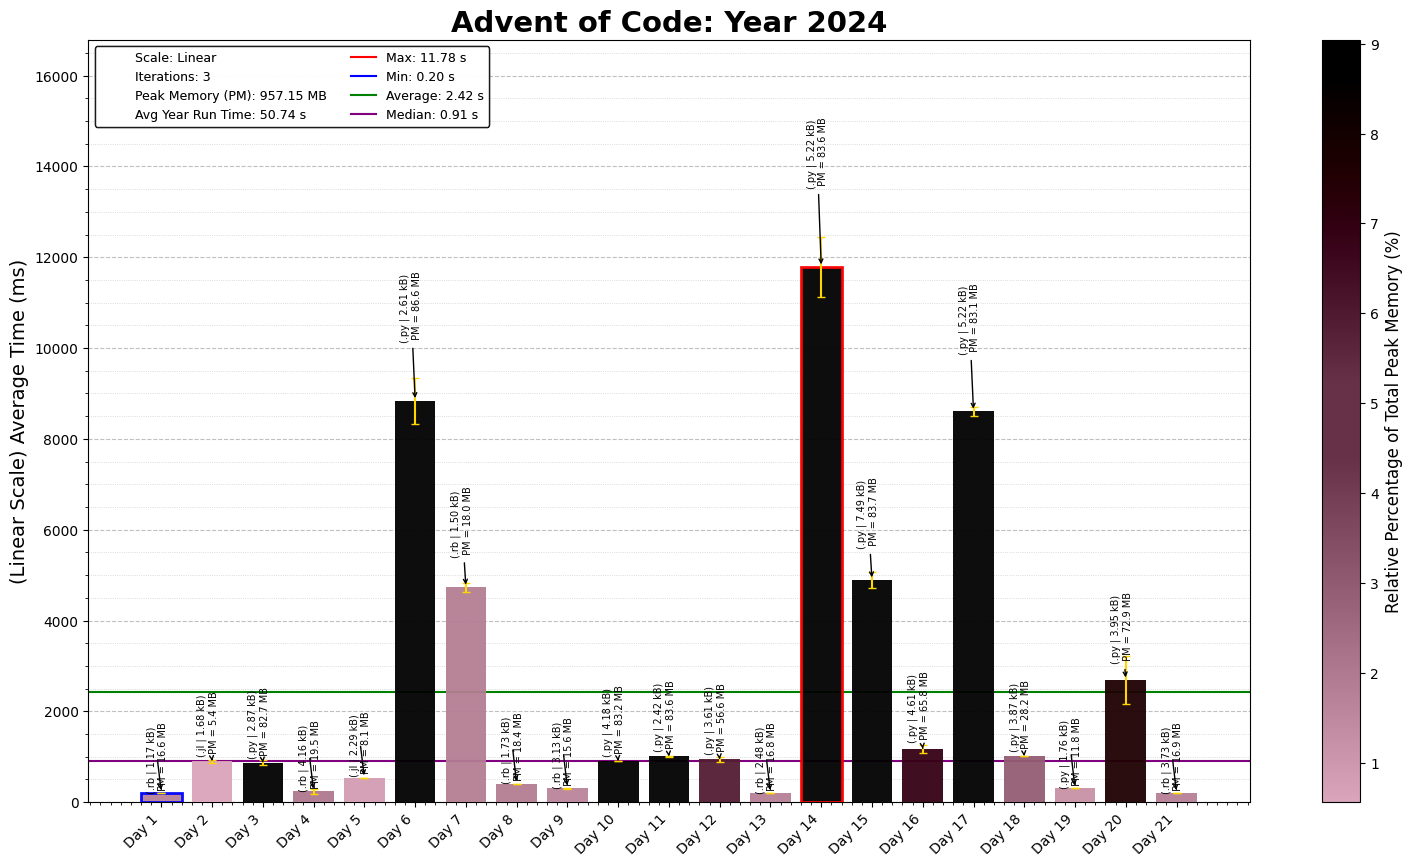
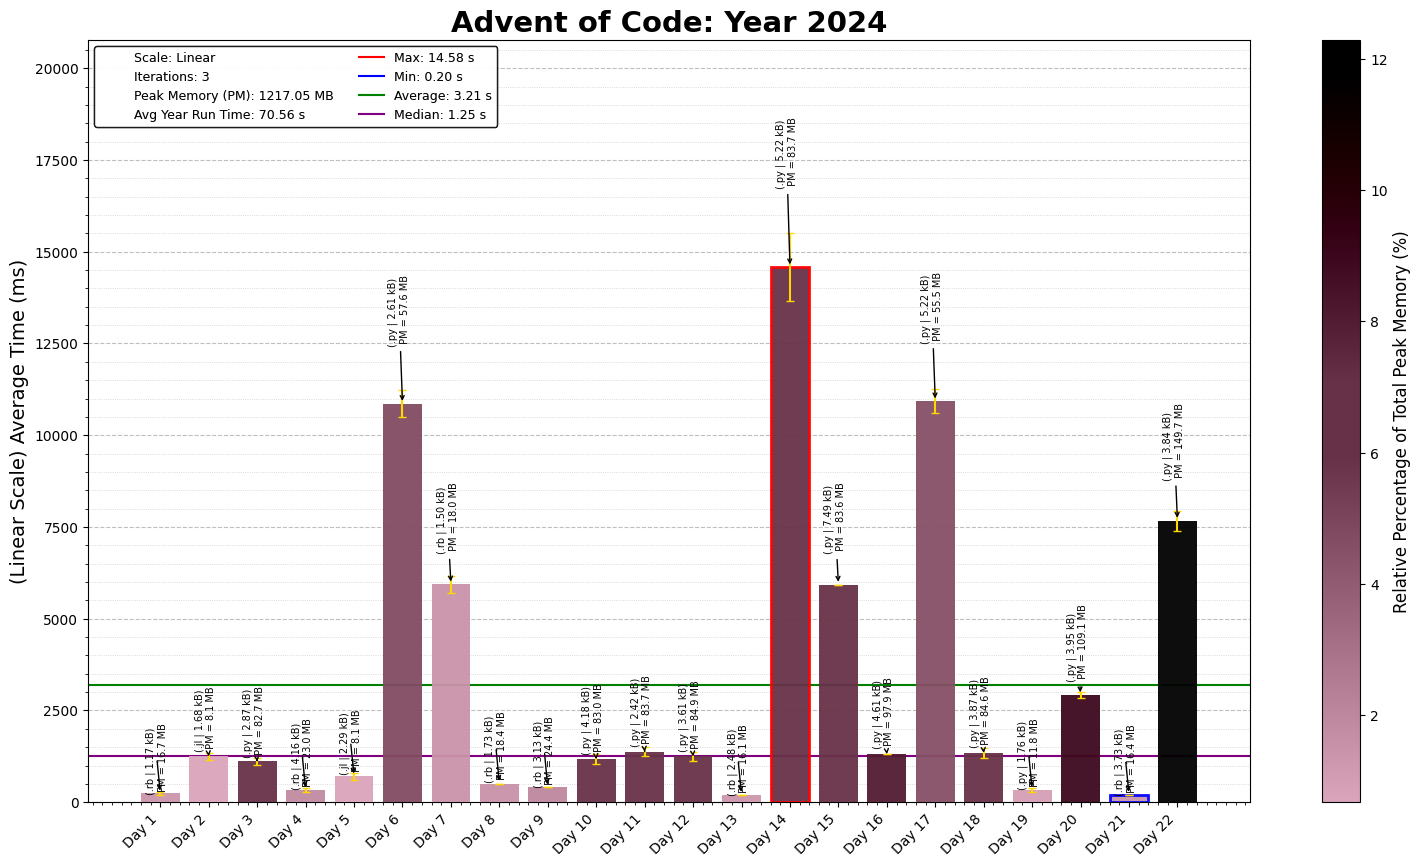
2024 Day 22

diff --git a/2024/22/2024Day22.py b/2024/22/2024Day22.py
@@ -1,0 +1,105 @@
+"""Advent of Code - Day 22, Year 2024
+Solution Started: Dec 22, 2024
+Puzzle Link: https://adventofcode.com/2024/day/22
+Solution by: abbasmoosajee07
+Brief: [Optimum Price in random price lists]
+"""
+
+import os
+import time
+from collections import defaultdict
+
+start_time = time.time()
+
+# Load the input data from the specified file path
+D22_file = "Day22_input.txt"
+D22_file_path = os.path.join(os.path.dirname(os.path.abspath(__file__)), D22_file)
+
+# Read and sort input data into a grid
+with open(D22_file_path) as file:
+    input_data = file.read().strip().split('\n')
+    input_nums = list(map(int, input_data))
+
+def evolve_secret_number(secret_number: int) -> int:
+    """Evolves the secret number through a series of transformations."""
+    def mix_number(value1: int, value2: int) -> int:
+        """Returns the result of XOR between value1 and value2."""
+        return value1 ^ value2
+
+    def prune_number(value: int, modulo: int = 16777216) -> int:
+        """Applies modulo operation to 'prune' the value."""
+        return value % modulo
+    # First transformation step: multiply, mix, and prune
+    factor_1 = 64
+    mixed_1 = mix_number(secret_number, secret_number * factor_1)
+    pruned_1 = prune_number(mixed_1)
+
+    # Second transformation step: divide, mix, and prune
+    divisor_2 = 32
+    mixed_2 = mix_number(pruned_1, pruned_1 // divisor_2)
+    pruned_2 = prune_number(mixed_2)
+    
+    # Third transformation step: multiply, mix, and prune
+    factor_3 = 2048
+    mixed_3 = mix_number(pruned_2, pruned_2 * factor_3)
+    final_num = prune_number(mixed_3)
+
+    # The final evolved number after all transformations
+    return final_num
+
+def process_buyer(buyer: int, generations: int = 2000) -> int:
+    """Process a single buyer and evolve their secret number over a specified number of generations."""
+    secret_number = buyer
+    price_list = []  # List to store differences in last digits
+
+    for gen in range(generations):
+        secret_number = evolve_secret_number(secret_number)  # Evolve the number
+
+        price_list.append(secret_number)
+
+    return price_list, secret_number
+
+def simulate_all_buyers(buyer_list: list[int]) -> int:
+    """Simulate all buyers, evolve their secret numbers, and return the total sum."""
+    total_nums = 0
+    price_dict = {}
+    for buyer in buyer_list:
+        price_list, final_number = process_buyer(buyer)  # Use the new function to process each buyer
+        price_dict[buyer] = price_list
+        total_nums += final_number
+    return price_dict, total_nums
+
+def sell_bananas(price_dict: dict, seq_len: int = 4) -> dict:
+    all_sequences = defaultdict(int)
+
+    for buyer_no, full_price in price_dict.items():
+        price_list = list(map(lambda x: x % 10, full_price))
+        sequence_dict = defaultdict(int)  # Initialize defaultdict with default value 0 for missing keys
+        for idx in range(seq_len - 1, len(price_list)):  # Look for sequences of length 4
+            price_deltas = tuple(
+                price_list[idx - (seq_len - i)] - price_list[idx - (seq_len - i + 1)]
+                for i in range(1, seq_len + 1)
+            )
+            if price_deltas not in sequence_dict:
+                sequence_dict[price_deltas] = price_list[idx]
+
+        # Update the global sequence dictionary with the local sequence counts
+        for sequence, price in sequence_dict.items():
+            all_sequences[sequence] += price
+
+    return all_sequences
+
+# Example Test
+price_dict, ans_p1 = simulate_all_buyers(input_nums)
+print("Part 1:", ans_p1)
+
+# # Sale sequence handling
+sale_dict = sell_bananas(price_dict)
+
+# Find the sequence with the maximum count
+if sale_dict:
+    sell_sequence = max(sale_dict, key=sale_dict.get)
+    bananas_sold = sale_dict[sell_sequence]
+    print(f"Part 2: {bananas_sold}")
+
+print("Time:", time.time() - start_time)

diff --git a/2024/22/Alt2024Day22.rb b/2024/22/Alt2024Day22.rb
@@ -1,0 +1,109 @@
+=begin
+Advent of Code - Day 22, Year 2024
+Solution Started: Dec 22, 2024
+Puzzle Link: https://adventofcode.com/2024/day/22
+Solution by: abbasmoosajee07
+Brief: [Optimum Price in random price lists]
+=end
+
+#!/usr/bin/env ruby
+
+require 'pathname'
+
+# Define file name and extract complete path to the input file
+D22_file = "Day22_input.txt"
+D22_file_path = Pathname.new(__FILE__).dirname + D22_file
+
+# Read the input data
+input_data = File.readlines(D22_file_path)
+
+# Function to mix two numbers using XOR
+def mix_number(value1, value2)
+  value1 ^ value2
+end
+
+# Function to prune a number by applying modulo
+def prune_number(value, modulo = 16777216)
+  value & (modulo - 1) # Faster than `%` for powers of 2
+end
+
+# Function to evolve the secret number through a series of transformations
+def evolve_secret_number(secret_number)
+  mixed_1 = mix_number(secret_number, secret_number << 6) # `* 64` becomes `<< 6`
+  pruned_1 = prune_number(mixed_1)
+
+  mixed_2 = mix_number(pruned_1, pruned_1 >> 5) # `/ 32` becomes `>> 5`
+  pruned_2 = prune_number(mixed_2)
+
+  mixed_3 = mix_number(pruned_2, pruned_2 << 11) # `* 2048` becomes `<< 11`
+  prune_number(mixed_3)
+end
+
+# Process a single buyer and evolve their secret number over a specified number of generations
+def process_buyer(buyer, generations = 2000)
+  secret_number = buyer
+  price_list = []  # List to store differences in last digits
+
+  generations.times do
+    secret_number = evolve_secret_number(secret_number)  # Evolve the number
+    last_digit = secret_number % 10  # Get last digit directly without string conversion
+
+    price_list.push(secret_number)
+  end
+  return price_list, secret_number
+end
+
+# Function to simulate all buyers and return the total sum of their final secret numbers
+def simulate_all_buyers(buyer_list)
+  total_nums = 0
+  price_dict = {}
+
+  buyer_list.each do |buyer|
+    digit_list, final_number = process_buyer(buyer)
+    price_dict[buyer] = digit_list
+    total_nums += final_number
+  end
+
+  [price_dict, total_nums]
+end
+
+# Function to handle banana sales and sequence handling
+def sell_bananas(price_dict, seq_len = 4)
+  all_sequences = Hash.new(0)
+
+  price_dict.each do |buyer_no, full_price|
+    price_list = full_price.map { |x| x % 10 }
+    sequence_dict = Hash.new(0)  # Initialize Hash with default value 0 for missing keys
+
+    (seq_len - 1..price_list.length - 1).each do |idx|  # Look for sequences of length `seq_len`
+      price_deltas = (1..seq_len).map do |i|
+        price_list[idx - (seq_len - i)] - price_list[idx - (seq_len - i + 1)]
+      end
+
+      sequence_dict[price_deltas] = price_list[idx] unless sequence_dict.key?(price_deltas)
+    end
+
+    # Update the global sequence dictionary with the local sequence counts
+    sequence_dict.each do |sequence, price|
+      all_sequences[sequence] += price
+    end
+  end
+
+  return all_sequences
+end
+
+# Parse input data
+input_nums = input_data.map(&:to_i)
+
+price_dict, ans_p1 = simulate_all_buyers(input_nums)
+puts "Part 1: #{ans_p1}"
+
+# Sale sequence handling
+sale_dict = sell_bananas(price_dict)
+
+# Find the sequence with the maximum count
+if !sale_dict.empty?
+  sell_sequence = sale_dict.max_by { |sequence, price| price }
+  bananas_sold = sell_sequence[1]
+  puts "Part 2: #{bananas_sold}"
+end

diff --git a/2024/README_2024.md b/2024/README_2024.md
@@ -25,3 +25,4 @@ This repository contains coding solutions for the 2024 Advent of Code. Its the f
 19. **Day 19- Linen Layout**: *Python* | Building words in using a group of blocks, finished in python cos it was easy.
 20. **Day 20- Race Condition**: *Python* | Almost an inverse of Day 18, where I brute forced a solution for Part 1:, by removing individual walls, which worked but took almost 5 mins so switched approaches. Switching to the manhattan approach between start and end cheats, resulted in a 10x speed up. Adding the KDT function for iterating through times, further sped it up by 10x, for a 100x speed up overall.
 21. **Day 21- Keypad Conundrum**: *Ruby* | While orignally I tried using a BFS to find path from each key to next, it became way tto memory intensive for the depths required in part 2, and switched to a more tailored algorithm focused on the absolute difference between two points
+22. **Day 22- Monkey Market**: *Python* | Essentially about finding patterns in a list of random numbers, which I ended up using a dictionary of lists to find the optimum point across all the 1600 lists.
